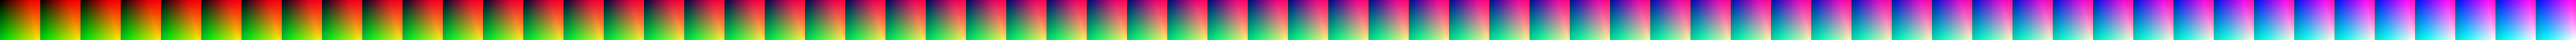
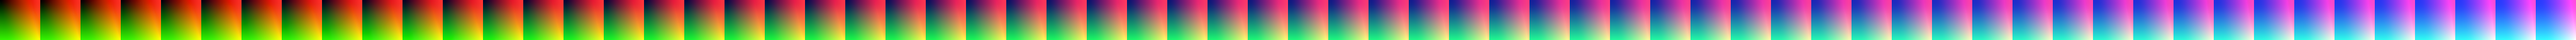
Revise NTSC-J mode to approximate the phosphors and color correction chip of a mid 90s Sony Trinitron, rather than the NTSC-J spec (which specified color primaries industry chemists never achieved).

Changed region(s): [[0.0, 0.0, 1.0, 1.0], [0.0, 0.5938, 0.4062, 1.0]]

diff --git a/src/renderer.cpp b/src/renderer.cpp
@@ -772,37 +772,21 @@ void Renderer::AssignGamutLUT()
 			}
 		}
 		else if (internalState.bIsOverallColorGamut == COLORGAMUT_NTSCJ){
-			// SDR should use the "inverse" conversions created with gamutthingy's "expand" flag, to compensate for the compression later,
-			// but HDR should not because the conversion to rec2020 doesn't involve compression
-			// This isn't exactly kosher for the SMPTEC and EBU cases, but they're close enough to sRGB
-			// that doing the expansion probably gives closer to accurate results than not doing it.
-			if (internalState.bIsHDR){
-				if ((internalState.bIsMovieColorGamut == COLORGAMUT_SRGB) || internalState.bIsOverrideGamut){
-					LoadGamutLUT(INDEX_LUT_SRGB_TO_NTSCJ); // load LUT if not already loaded
-					useTexture(GLUTHandleSRGBtoNTSCJ.idx, RendererTextureSlot::TEX_G_LUT);
-				}
-				else if (internalState.bIsMovieColorGamut == COLORGAMUT_SMPTEC){
-					LoadGamutLUT(INDEX_LUT_SMPTEC_TO_NTSCJ); // load LUT if not already loaded
-					useTexture(GLUTHandleSMPTECtoNTSCJ.idx, RendererTextureSlot::TEX_G_LUT);
-				}
-				else if (internalState.bIsMovieColorGamut == COLORGAMUT_EBU){
-					LoadGamutLUT(INDEX_LUT_EBU_TO_NTSCJ); // load LUT if not already loaded
-					useTexture(GLUTHandleEBUtoNTSCJ.idx, RendererTextureSlot::TEX_G_LUT);
-				}
+			// This is slightly wrong for HDR, since the LUTs invert gamut compression that wouldn't happen in HDR.
+			// The consequence is that some colors near places where the P22 gamut exceeds the sRGB/SMPTE-C/EBU gamuts
+			// will appear slightly brighter and/or more saturated in HDR than they would if the round-trip were perfect.
+			// I don't think anyone will mind...
+			if ((internalState.bIsMovieColorGamut == COLORGAMUT_SRGB) || internalState.bIsOverrideGamut){
+				LoadGamutLUT(INDEX_LUT_INVERSE_NTSCJ_TO_SRGB); // load LUT if not already loaded
+				useTexture(GLUTHandleInverseNTSCJtoSRGB.idx, RendererTextureSlot::TEX_G_LUT);
 			}
-			else{
-				if ((internalState.bIsMovieColorGamut == COLORGAMUT_SRGB) || internalState.bIsOverrideGamut){
-					LoadGamutLUT(INDEX_LUT_INVERSE_NTSCJ_TO_SRGB); // load LUT if not already loaded
-					useTexture(GLUTHandleInverseNTSCJtoSRGB.idx, RendererTextureSlot::TEX_G_LUT);
-				}
-				else if (internalState.bIsMovieColorGamut == COLORGAMUT_SMPTEC){
-					LoadGamutLUT(INDEX_LUT_INVERSE_NTSCJ_TO_SMPTEC); // load LUT if not already loaded
-					useTexture(GLUTHandleInverseNTSCJtoSMPTEC.idx, RendererTextureSlot::TEX_G_LUT);
-				}
-				else if (internalState.bIsMovieColorGamut == COLORGAMUT_EBU){
-					LoadGamutLUT(INDEX_LUT_INVERSE_NTSCJ_TO_EBU); // load LUT if not already loaded
-					useTexture(GLUTHandleInverseNTSCJtoEBU.idx, RendererTextureSlot::TEX_G_LUT);
-				}
+			else if (internalState.bIsMovieColorGamut == COLORGAMUT_SMPTEC){
+				LoadGamutLUT(INDEX_LUT_INVERSE_NTSCJ_TO_SMPTEC); // load LUT if not already loaded
+				useTexture(GLUTHandleInverseNTSCJtoSMPTEC.idx, RendererTextureSlot::TEX_G_LUT);
+			}
+			else if (internalState.bIsMovieColorGamut == COLORGAMUT_EBU){
+				LoadGamutLUT(INDEX_LUT_INVERSE_NTSCJ_TO_EBU); // load LUT if not already loaded
+				useTexture(GLUTHandleInverseNTSCJtoEBU.idx, RendererTextureSlot::TEX_G_LUT);
 			}
 		}
 
@@ -1185,30 +1169,16 @@ void Renderer::prepareGamutLUTs()
 		bgfx::destroy(GLUTHandleInverseNTSCJtoSMPTEC);
 	if (bgfx::isValid(GLUTHandleInverseNTSCJtoEBU))
 		bgfx::destroy(GLUTHandleInverseNTSCJtoEBU);
-	if (bgfx::isValid(GLUTHandleSRGBtoNTSCJ))
-		bgfx::destroy(GLUTHandleSRGBtoNTSCJ);
-	if (bgfx::isValid(GLUTHandleSMPTECtoNTSCJ))
-		bgfx::destroy(GLUTHandleSMPTECtoNTSCJ);
-	if (bgfx::isValid(GLUTHandleEBUtoNTSCJ))
-		bgfx::destroy(GLUTHandleEBUtoNTSCJ);
 
 	// load only the LUTs we are likely to need
 	// consult the global setting so we don't get tripped up by renderer state changing to accomodate the FFNx logo
 	if (enable_ntscj_gamut_mode){
-		if (internalState.bIsHDR){
-			// Final NTSC-J to rec2020 conversion will be handled by matrix math in the shader (no gamut compression mapping needed)
-			// We will probably have some sRGB videos that must go sRGB -> NTSC-J -> rec2020.
-			// Use the compress-only (non "inverse") LUT because the final step for HDR won't invert expansions
-			LoadGamutLUT(INDEX_LUT_SRGB_TO_NTSCJ);
-		}
-		// SDR
-		else {
+		if (!internalState.bIsHDR){
 			// Final NTSC-J to sRGB conversion needs gamut compression mapping LUT
 			LoadGamutLUT(INDEX_LUT_NTSCJ_TO_SRGB);
-			// We will probably have some sRGB videos that must go sRGB -> NTSC-J -> sRGB.
-			// Use expanding "inverse" LUT to counteract the compression in the final conversion.
-			LoadGamutLUT(INDEX_LUT_INVERSE_NTSCJ_TO_SRGB);
 		}
+		// We will probably have some sRGB videos that must have a roundtrip conversion.
+		LoadGamutLUT(INDEX_LUT_INVERSE_NTSCJ_TO_SRGB);
 	}
 	// Most FF7 movies will need NTSC-J to sRGB conversion for sRGB mode
 	// (FF8 Steam edition movies were already converted)
@@ -1274,27 +1244,6 @@ void Renderer::LoadGamutLUT(GamutLUTIndexType whichLUT)
 				sprintf(fullpath, "%s/shaders/glut_inverse_ntscj_to_ebu.png", basedir);
 				GLUTHandleInverseNTSCJtoEBU = createTextureHandle(fullpath, &width, &height, &mipCount, false);
 				if (!GLUTHandleInverseNTSCJtoEBU.idx) GLUTHandleInverseNTSCJtoEBU = BGFX_INVALID_HANDLE;
-			}
-			break;
-		case INDEX_LUT_SRGB_TO_NTSCJ:
-			if (!bgfx::isValid(GLUTHandleSRGBtoNTSCJ)){
-				sprintf(fullpath, "%s/shaders/glut_srgb_to_ntscj.png", basedir);
-				GLUTHandleSRGBtoNTSCJ = createTextureHandle(fullpath, &width, &height, &mipCount, false);
-				if (!GLUTHandleSRGBtoNTSCJ.idx) GLUTHandleSRGBtoNTSCJ = BGFX_INVALID_HANDLE;
-			}
-			break;
-		case INDEX_LUT_SMPTEC_TO_NTSCJ:
-			if (!bgfx::isValid(GLUTHandleSMPTECtoNTSCJ)){
-				sprintf(fullpath, "%s/shaders/glut_smptec_to_ntscj.png", basedir);
-				GLUTHandleSMPTECtoNTSCJ = createTextureHandle(fullpath, &width, &height, &mipCount, false);
-				if (!GLUTHandleSMPTECtoNTSCJ.idx) GLUTHandleSMPTECtoNTSCJ = BGFX_INVALID_HANDLE;
-			}
-			break;
-		case INDEX_LUT_EBU_TO_NTSCJ:
-			if (!bgfx::isValid(GLUTHandleEBUtoNTSCJ)){
-				sprintf(fullpath, "%s/shaders/glut_ebu_to_ntscj.png", basedir);
-				GLUTHandleEBUtoNTSCJ = createTextureHandle(fullpath, &width, &height, &mipCount, false);
-				if (!GLUTHandleEBUtoNTSCJ.idx) GLUTHandleEBUtoNTSCJ = BGFX_INVALID_HANDLE;
 			}
 			break;
 		default:

diff --git a/src/renderer.h b/src/renderer.h
@@ -183,10 +183,7 @@ enum GamutLUTIndexType{
 	INDEX_LUT_EBU_TO_SRGB,
 	INDEX_LUT_INVERSE_NTSCJ_TO_SRGB,
 	INDEX_LUT_INVERSE_NTSCJ_TO_SMPTEC,
-	INDEX_LUT_INVERSE_NTSCJ_TO_EBU,
-	INDEX_LUT_SRGB_TO_NTSCJ,
-	INDEX_LUT_SMPTEC_TO_NTSCJ,
-	INDEX_LUT_EBU_TO_NTSCJ
+	INDEX_LUT_INVERSE_NTSCJ_TO_EBU
 };
 
 static void RendererReleaseImageContainer(void* _ptr, void* _userData)
@@ -378,9 +375,6 @@ private:
     bgfx::TextureHandle GLUTHandleInverseNTSCJtoSRGB = BGFX_INVALID_HANDLE;
     bgfx::TextureHandle GLUTHandleInverseNTSCJtoSMPTEC = BGFX_INVALID_HANDLE;
     bgfx::TextureHandle GLUTHandleInverseNTSCJtoEBU = BGFX_INVALID_HANDLE;
-    bgfx::TextureHandle GLUTHandleSRGBtoNTSCJ = BGFX_INVALID_HANDLE;
-    bgfx::TextureHandle GLUTHandleSMPTECtoNTSCJ = BGFX_INVALID_HANDLE;
-    bgfx::TextureHandle GLUTHandleEBUtoNTSCJ = BGFX_INVALID_HANDLE;
 
     bgfx::VertexLayout vertexLayout;
 
